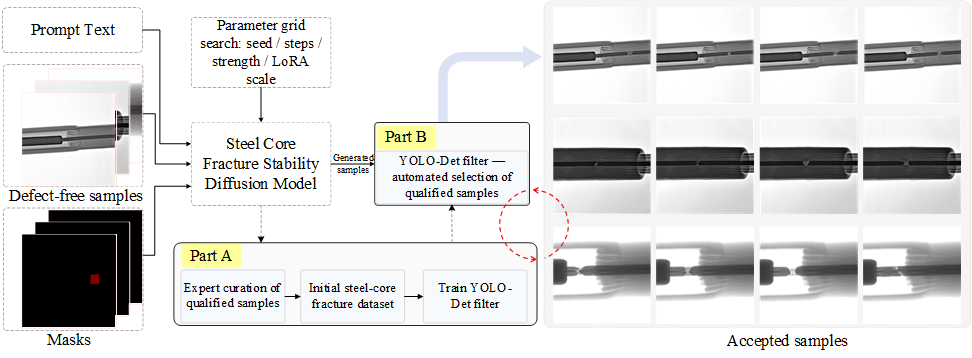
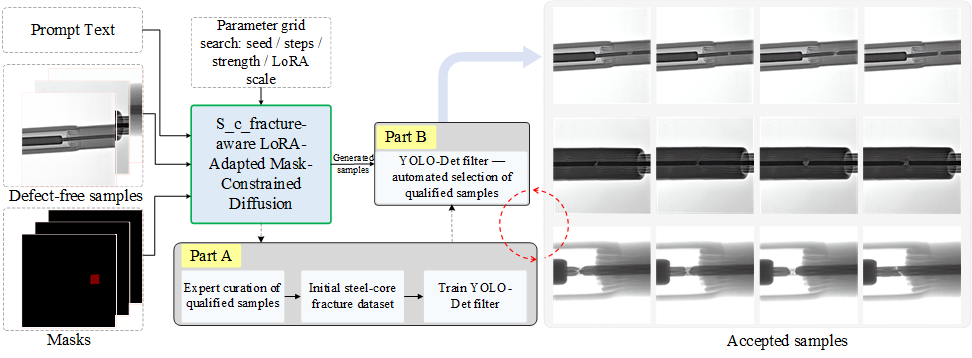
FIGURE
FIGURE

diff --git a/README.md b/README.md
@@ -29,7 +29,7 @@ This repository presents the implementation of **SLGP-DA**, a **Structure-Prior 
 
 ![Fig4](RE_IMAGE/Fig4.png)
 
-> Figure 3: SLMY pipeline including LoRA prior injection, mask-guided synthesis, and YOLO-based posterior screening.
+> Figure 4: SLMY pipeline including LoRA prior injection, mask-guided synthesis, and YOLO-based posterior screening.
 
 ---
 
